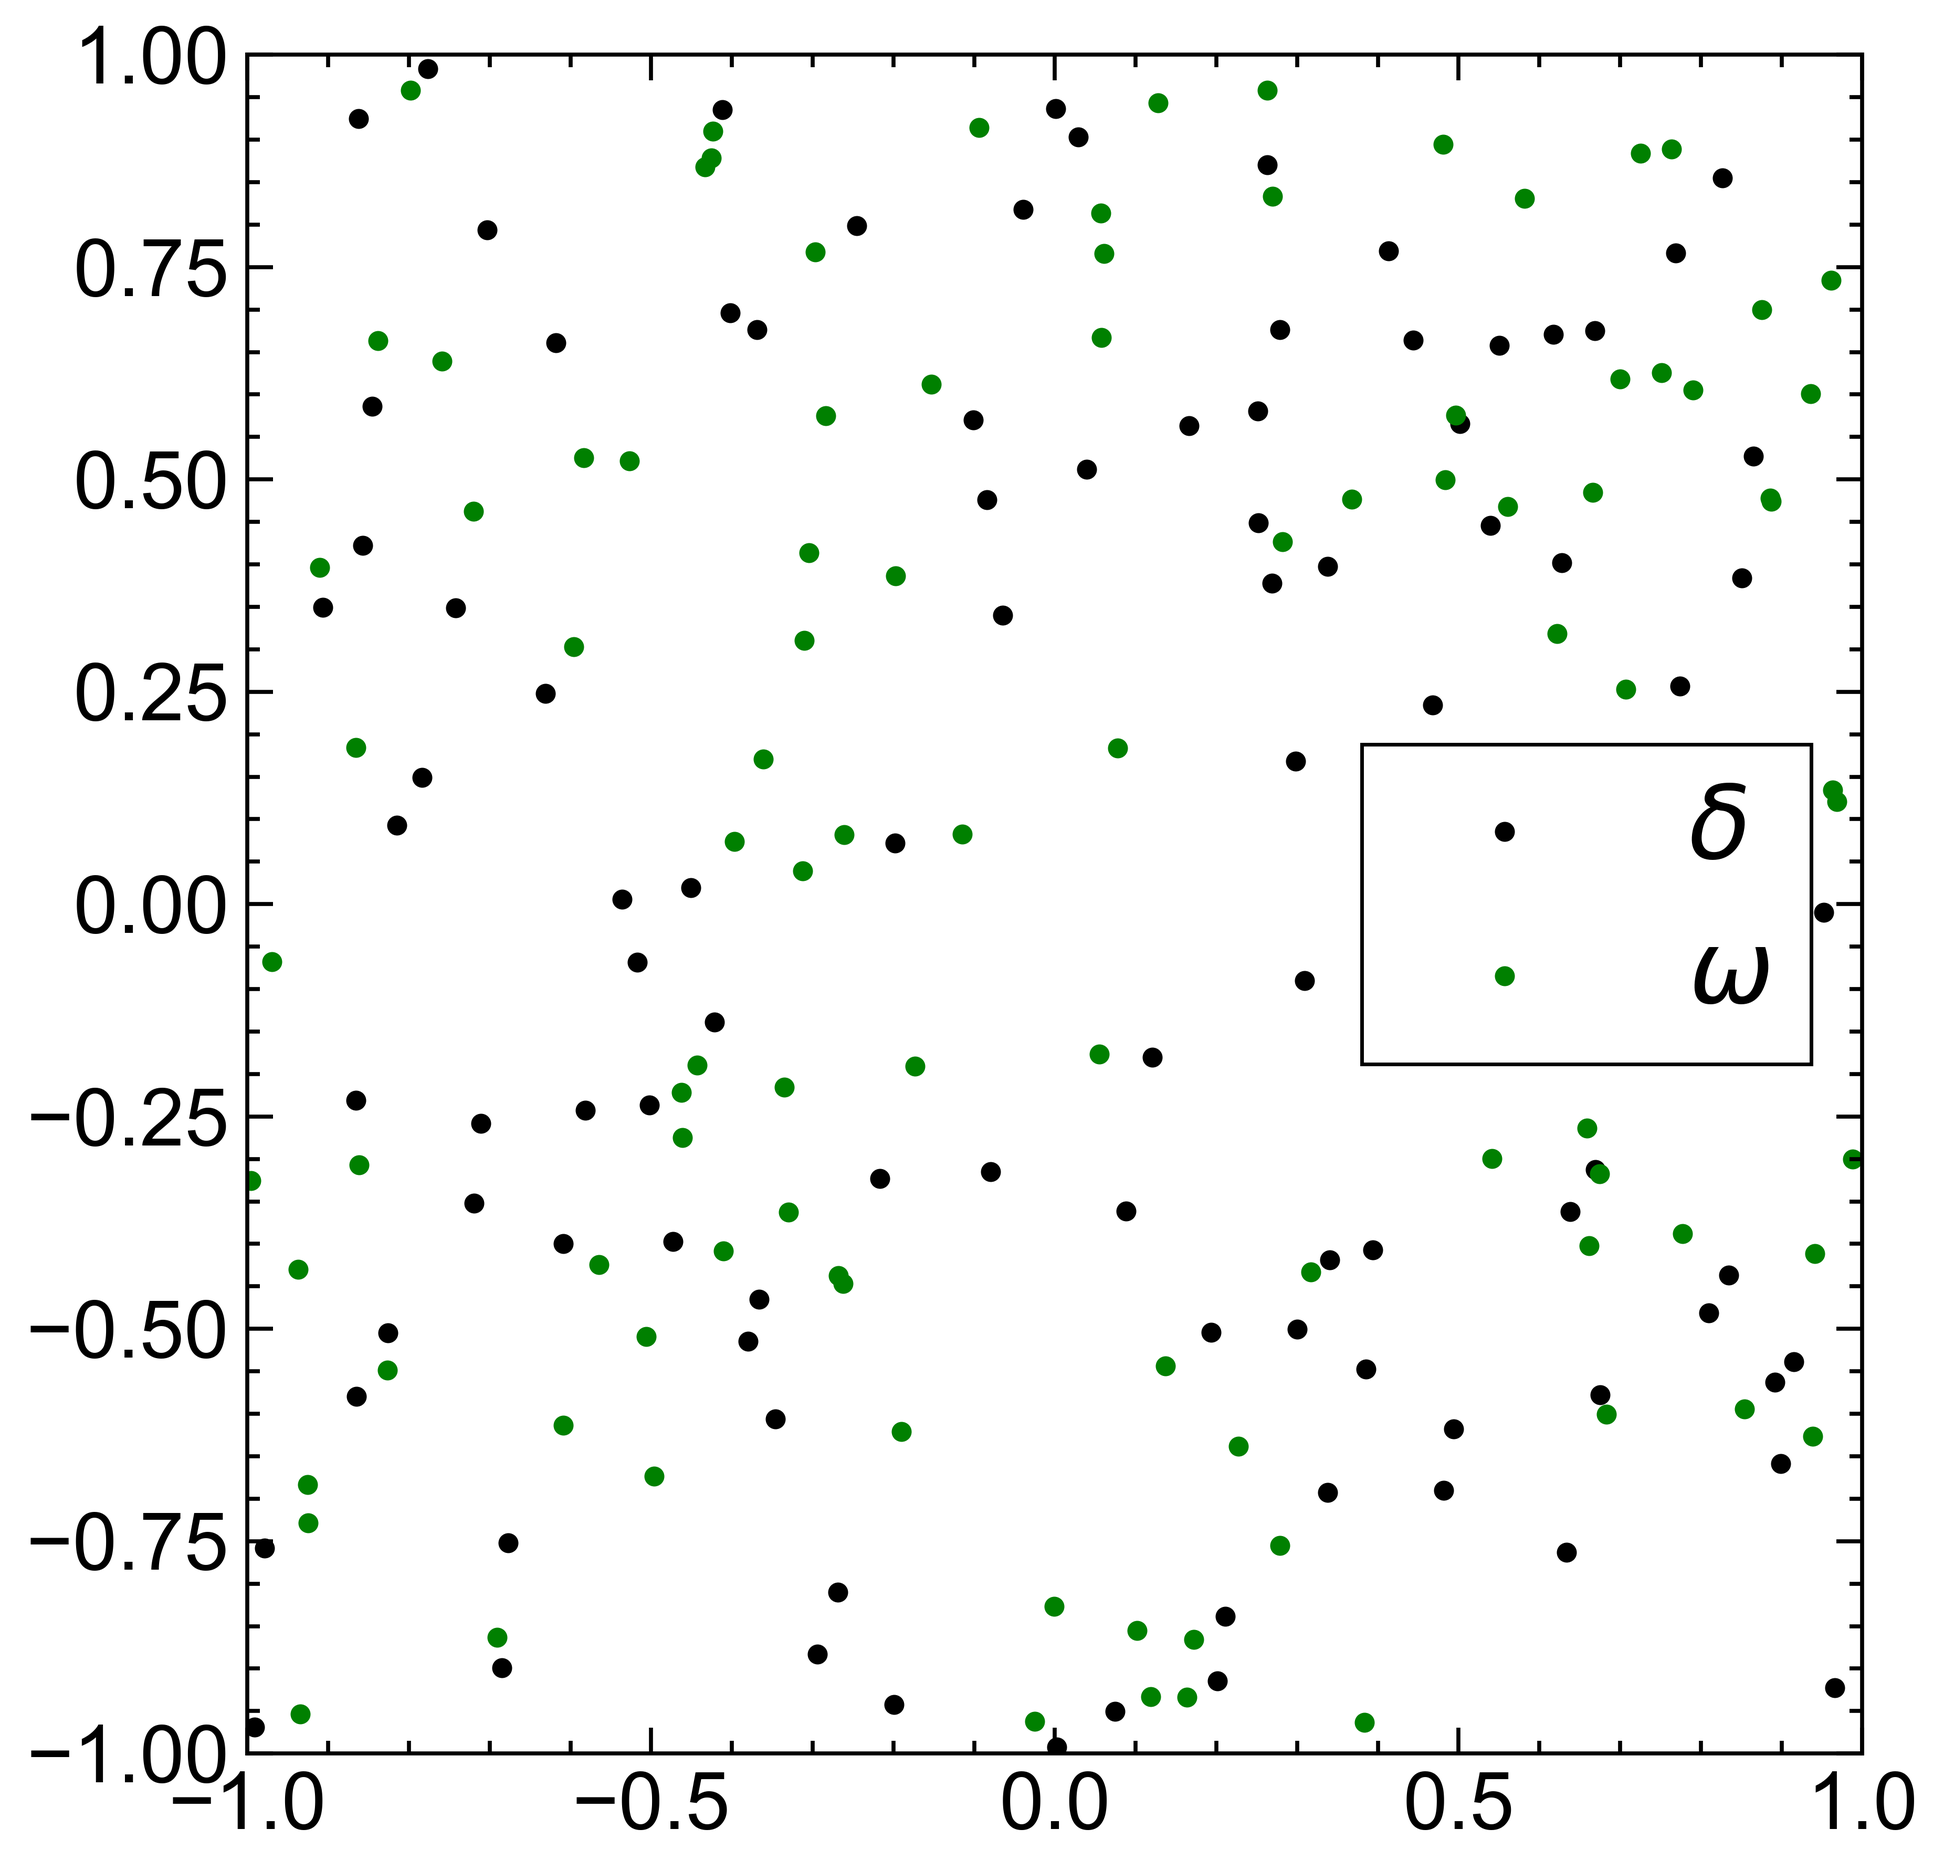
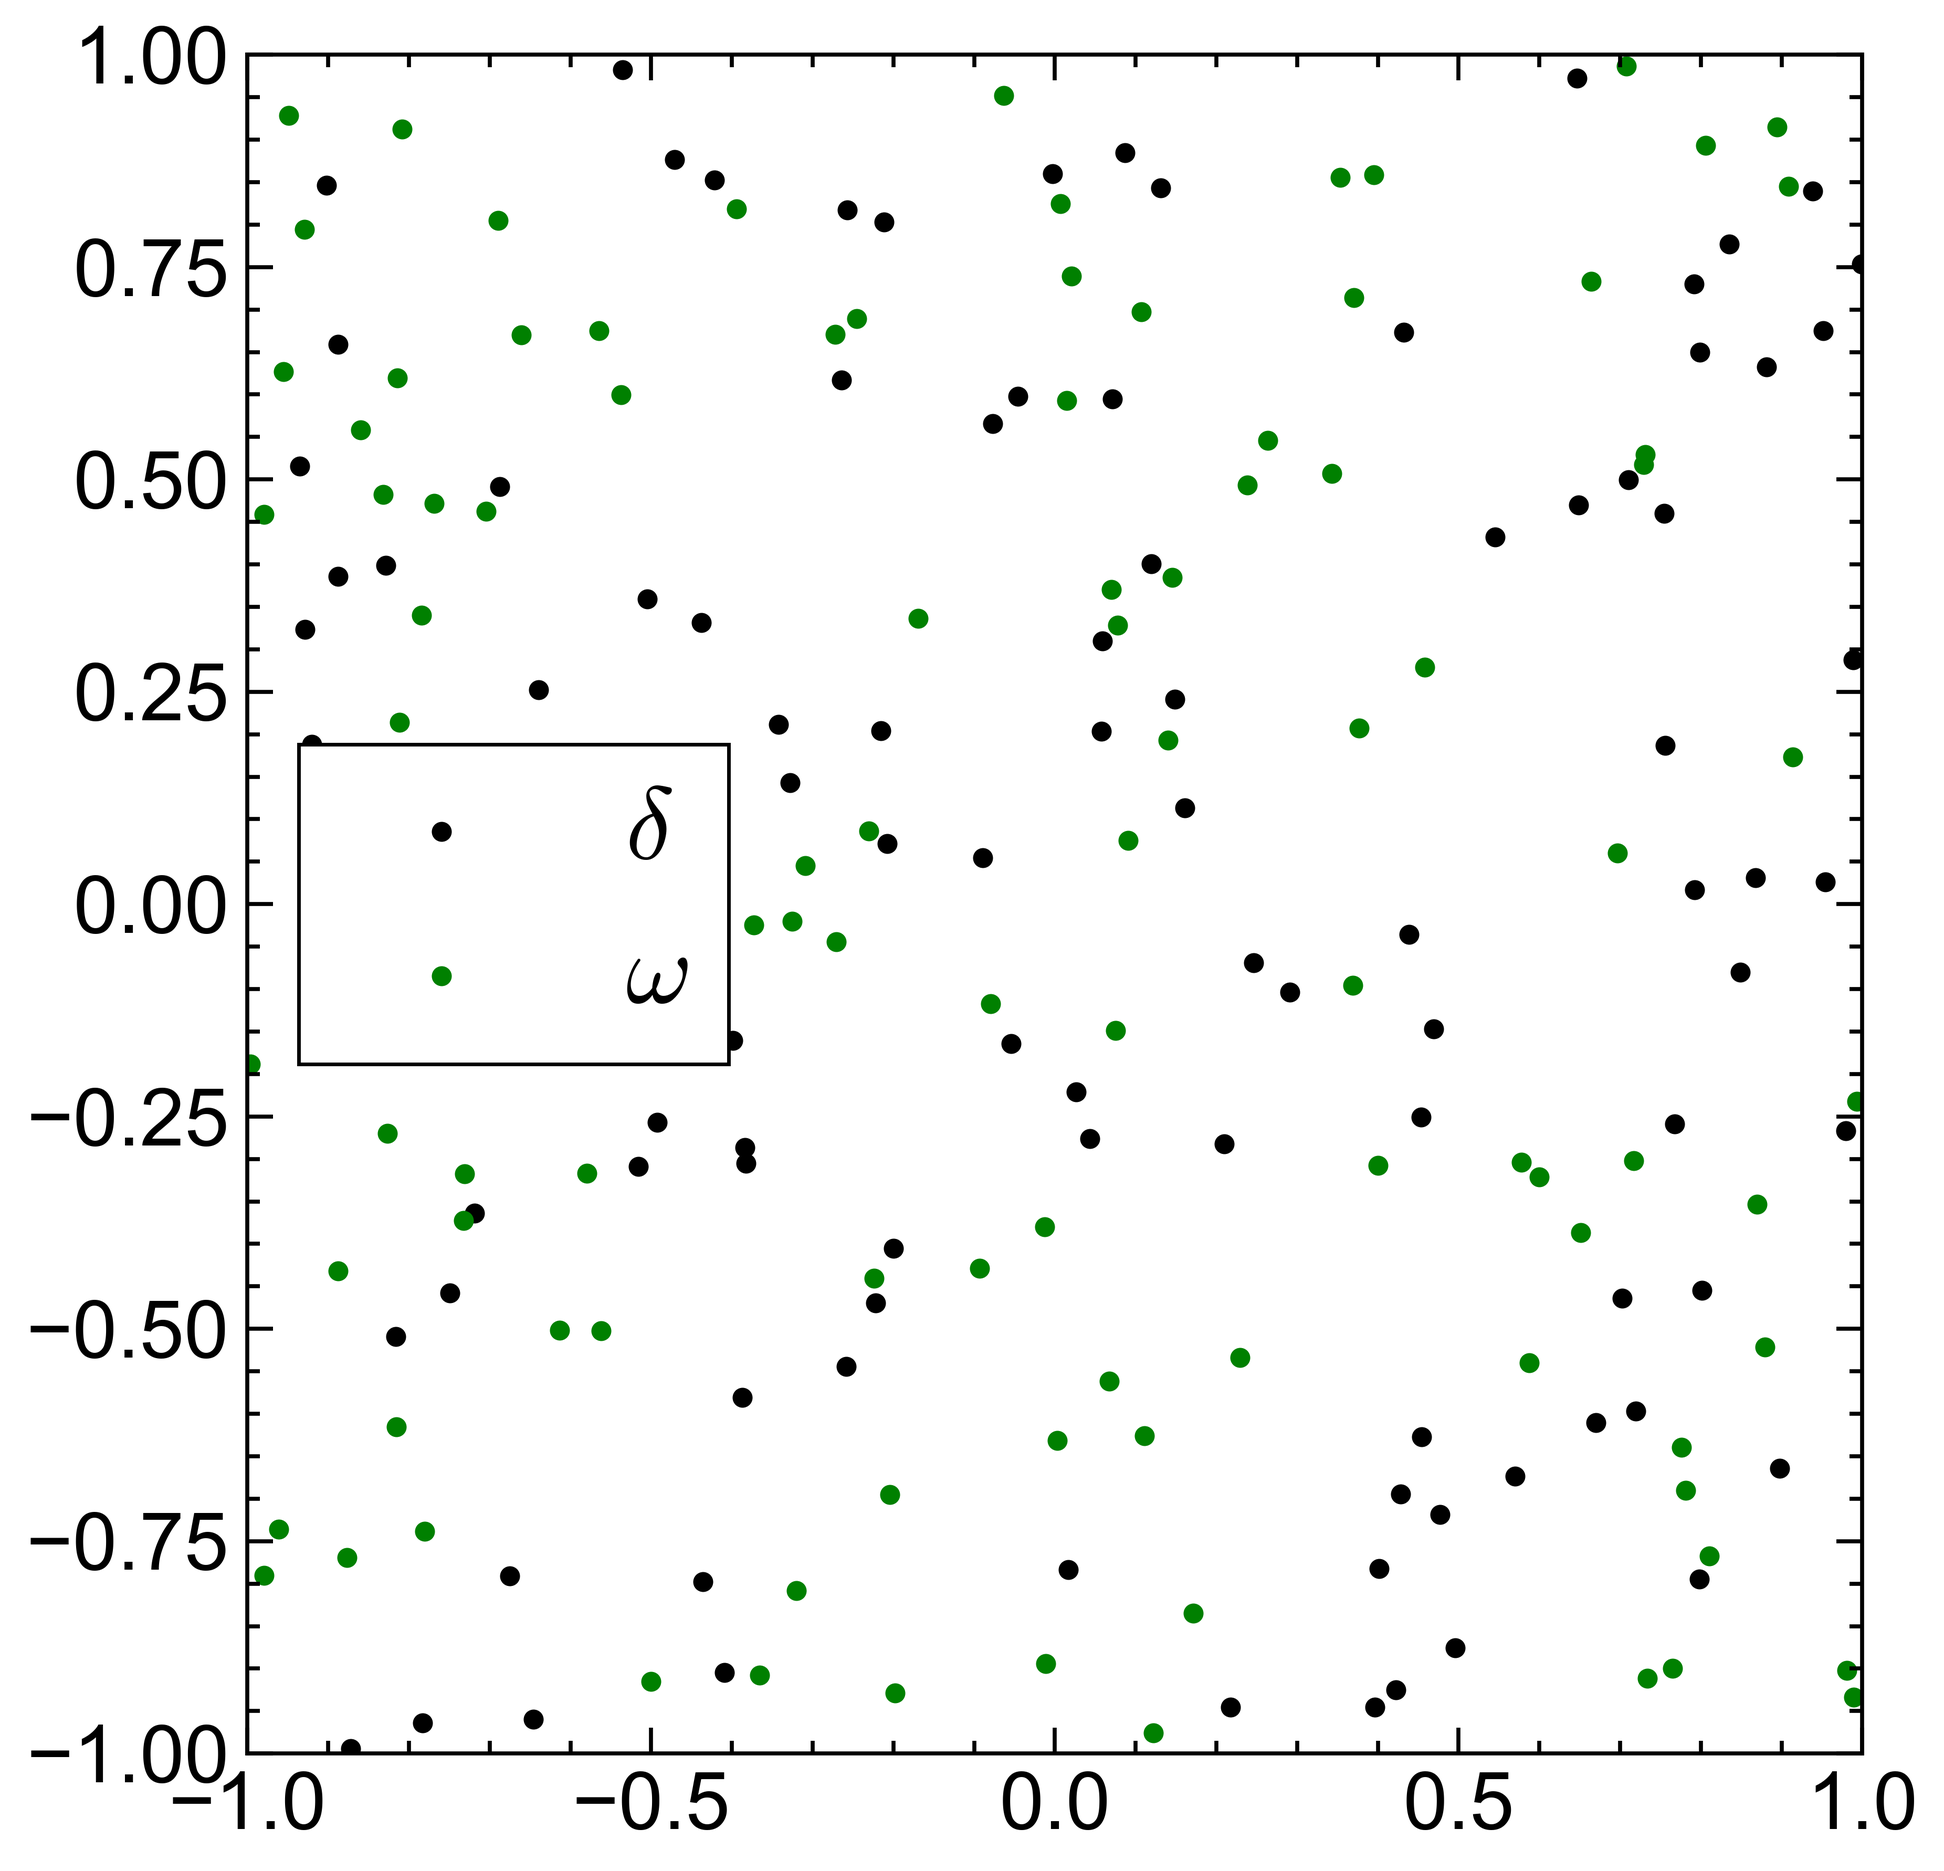
hehe

diff --git a/Plooter.py b/Plooter.py
@@ -46,7 +46,8 @@ def FixPlot(lx, ly):
                      "ytick.major.pad": 5,
                      "ytick.minor.visible": True,
                      "lines.markersize": 10,
-                     "lines.markeredgewidth": 0.8})
+                     "lines.markeredgewidth": 0.8, 
+                     "mathtext.fontset": "cm"})
 
 
 def FixTicks(ax, minorx, minory, multx, multy):
